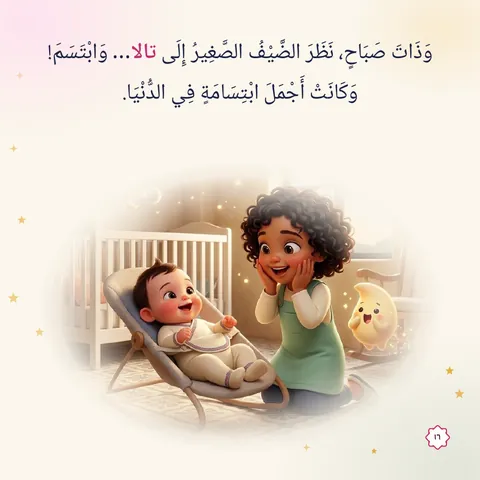
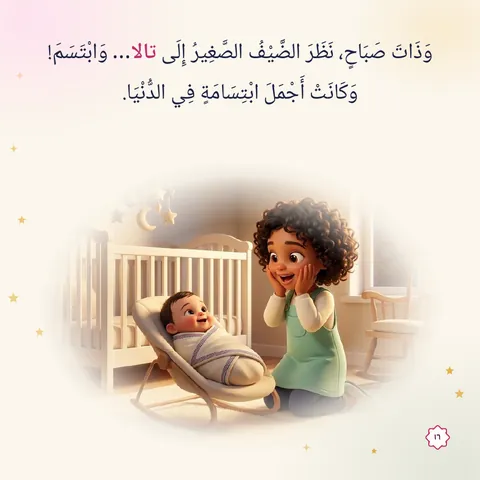
Style samples redrawn on the production path: portrait first, the v3 style guides
The site's samples were drawn with the old guides (the semi-realistic ones looked like a cartoon, and every
style's "character" sample was close to the watercolor sheet). Redrawn for the same invented girl تالا (no
hijab), from the same crop of her watercolor sheet, never a real child's photo:

- scripts/style_samples.py draw: the character as an order draws it (generate_character: the portrait in the
  style on Nano Banana Pro 1K, then the sheet on Pro 2K), the portrait passed to every page as the face
  reference; --no-companion, --portrait, and --total-cap (a cap over every run of one ledger prefix).
- Semi-realistic: character sheet, the new-sibling cover and «smile» page. 3D: sheet and «smile» page.
  Cartoon and watercolor: the sheet. Every new one looked at and kept (each better than the old).
- The activity-book cover and owner page re-rendered locally with each new sheet; the new watercolor sheet
  cuts out cleanly, so watercolor gets activity samples too.
- Spend: $1.44 of the $1.50 cap, 11 calls, `samples-v3:` rows in out/design-images/ledger.jsonl.

Changed region(s): [[0.1562, 0.375, 0.875, 0.9062]]

diff --git a/apps/web/src/lib/styleSamples.ts b/apps/web/src/lib/styleSamples.ts
@@ -205,7 +205,10 @@ const SIBLING_TALA = {
   ],
 } satisfies Record<string, Row>;
 
-/** تالا’s character sheet in each style (the same invented child as the new-sibling pages). */
+/**
+ * تالا’s character sheet in each style (the same invented child as the new-sibling pages), drawn 2026-10-16 as an
+ * order draws it: her portrait in the style, then the sheet (scripts/style_samples.py).
+ */
 const CHARACTER: Row = [
   "character",
   null,
@@ -295,7 +298,8 @@ const ROWS: Record<SampleStyle, Row[]> = {
     SIBLING_TALA.smile,
     ...GRADUATION,
     COMPANION,
-    CHARACTER, // no activity pages: this sheet's paper grain defeats the cut-out (scripts/style_samples.py)
+    CHARACTER,
+    ...ACTIVITY, // since the 2026-10-16 sheet, which cuts out cleanly
   ],
   cartoon: [
     FIRST_DAY_ADAM.cover,
@@ -308,8 +312,8 @@ const ROWS: Record<SampleStyle, Row[]> = {
     CHARACTER,
     ...ACTIVITY,
   ],
-  // drawn 2026-10-09 (`semireal:` rows in the ledger); the bassinet and news pages were rejected (the baby under
-  // the text box; the companion drawn twice), so the story has its cover and one page so far
+  // redrawn 2026-10-16 on the production path (portrait first, semi-realistic v3; `samples-v3:` rows in the
+  // ledger): the cover and one page so far
   "semi-realistic": [SIBLING_TALA.cover, SIBLING_TALA.smile, CHARACTER, ...ACTIVITY],
 };
 

diff --git a/scripts/style_samples.py b/scripts/style_samples.py
@@ -41,12 +41,12 @@ from PIL import Image
 
 from qamra_ai.config import Settings
 from qamra_ai.cost import CostEntry
-from qamra_ai.image import make_image_provider, make_upscaler
+from qamra_ai.image import make_character_image_providers, make_image_provider, make_upscaler
 from qamra_ai.image.base import GeneratedImage
 from qamra_ai.pipeline.assemble import AssemblyInputs, assemble_book
 from qamra_ai.pipeline.book import BookInputs, BookRun, default_companion, run_book
 from qamra_ai.pipeline.budget import Budget
-from qamra_ai.pipeline.character import generate_character_sheet
+from qamra_ai.pipeline.character import generate_character
 from qamra_ai.pipeline.models import Child
 from qamra_ai.pipeline.pages import PageResult
 from qamra_ai.pipeline.plates import DirPlateStore
@@ -71,28 +71,28 @@ CARTOON_ADAM = "out/style-samples/cartoon-first-day-adam/proof.pdf"
 CARTOON_TALA = "out/style-samples/cartoon-new-sibling-tala/proof.pdf"
 ADAM_3D = "out/style-samples/3d-first-day-adam/proof.pdf"
 TALA_3D = "out/style-samples/3d-new-sibling-tala/proof.pdf"  # p1 is a rejected cover, never exported
-# «شبه حقيقي» (2026-10-09, `semireal:` rows in the ledger): the sheet was drawn from a head-and-shoulders
-# crop of تالا's published sheet (a whole sheet as the reference is copied back unchanged), then the cover and
-# pages with `draw --sheet`. The bassinet page (three tries) put the baby under the text box and the news page
-# drew the companion twice: neither is exported.
-SEMI_TALA = "out/style-samples/semi-realistic-new-sibling-tala/proof.pdf"
-# The same invented child's character sheet per style, and the activity-book cover and «هذا الكتاب لـ…»
-# page with her cut-out, rendered locally (no AI):
-#   python -m qamra_workbook.render.workbook --level kg1 --volume 1 --cover --pages 1-1 --name تالا \
-#       --name-en Tala --gender f --sheet <sheet> --out out/style-samples/activity/<style>
-# Watercolor has no activity sample yet: until cut-out v3 (2026-10-09) that sheet's paper grain defeated the
-# cut-out (the whole sheet was pasted); it now cuts cleanly, so one can be rendered and added to ACTIVITY.
+# «شبه حقيقي» (2026-10-09, `semireal:` rows) was drawn from a crop of تالا's watercolor sheet on Nano Banana 2 and
+# looked like a cartoon. Redrawn 2026-10-16 on the production path (`samples-v3:` rows, $1.44 of a $1.50 cap,
+# `draw --ref <the same crop> --no-companion`): her portrait, then her sheet, on Nano Banana Pro (portrait first,
+# character_portrait.v2 + character_sheet.v6), then the pages on Nano Banana 2 with the portrait as the face
+# reference (page_image.v5), with the style guides customers now get (3D, cartoon and watercolor v3: the child's
+# own face; semi-realistic v3). Semi-realistic: sheet, cover and the «smile» page; 3D: sheet and the «smile»
+# page (that proof's p1 is the old rejected cover laid out again, never exported); cartoon and watercolor: the
+# sheet only. Every other story page is still a 2026-10-09 (or earlier) drawing.
+SEMI_TALA = "out/style-samples/semi-realistic-new-sibling-tala-v3/proof.pdf"
+TALA_3D_V3 = "out/style-samples/3d-new-sibling-tala-v3/proof.pdf"
+# The same invented child's character sheet per style (2026-10-16), and the activity-book cover and «هذا الكتاب
+# لـ…» page with her cut-out, rendered locally (no AI):
+#   python -m qamra_workbook.render.workbook --level kg1 --volume 1 --cover --pages 1-1 --name تالا
+#       --name-en Tala --gender f --sheet <sheet> --out out/style-samples/activity-v3/<style>
+# The new watercolor sheet cuts out cleanly, so watercolor has activity samples too.
 SHEETS = {
-    "3d": "out/style-samples/src/3d-new-sibling-tala/character.png",
-    "watercolor": "out/style-samples/src/watercolor-tala-sheet.png",
-    "cartoon": "out/style-samples/src/cartoon-new-sibling-tala/character.png",
-    "semi-realistic": "out/style-samples/src/semi-realistic-new-sibling-tala/character.png",
+    "3d": "out/style-samples/3d-new-sibling-tala-v3/character-sheet.png",
+    "watercolor": "out/style-samples/watercolor-tala-sheet-v3/character-sheet.png",
+    "cartoon": "out/style-samples/cartoon-tala-sheet-v3/character-sheet.png",
+    "semi-realistic": "out/style-samples/semi-realistic-new-sibling-tala-v3/character-sheet.png",
 }
-ACTIVITY = {  # style → the render folder's page-range suffix
-    "3d": "p1-1",
-    "cartoon": "p1-1",
-    "semi-realistic": "p1-3",
-}
+ACTIVITY = ("3d", "cartoon", "semi-realistic", "watercolor")
 
 # What the site shows: style/name ← (a proof PDF and its 1-based page) or a picture file. The alt texts and
 # the order live in styleSamples.ts; this list only makes the files.
@@ -101,7 +101,7 @@ SAMPLES: list[tuple[str, str, str, int | None]] = [
     ("3d", "first-day-blocks", ADAM_3D, 3),
     ("3d", "first-day-yard", ADAM_3D, 4),
     ("3d", "new-sibling-bassinet", TALA_3D, 3),
-    ("3d", "new-sibling-smile", TALA_3D, 4),
+    ("3d", "new-sibling-smile", TALA_3D_V3, 3),
     ("3d", "graduation-cover", GRAD_3D, 1),
     ("3d", "graduation-mirror", GRAD_3D, 3),
     ("3d", "graduation-album", GRAD_3D, 4),
@@ -140,8 +140,8 @@ SAMPLES: list[tuple[str, str, str, int | None]] = [
     ("semi-realistic", "new-sibling-smile", SEMI_TALA, 3),
     *((style, "character", sheet, None) for style, sheet in SHEETS.items()),
     *(
-        (style, name, f"out/style-samples/activity/{style}/png-kg1-v1-{pages}{folder}/{file}.png", None)
-        for style, pages in ACTIVITY.items()
+        (style, name, f"out/style-samples/activity-v3/{style}/png-kg1-v1-p1-1{folder}/{file}.png", None)
+        for style in ACTIVITY
         for name, folder, file in (
             ("activity-cover", "-cover", "workbook-cover-front"),
             ("activity-owner", "", "p001-owner-page"),
@@ -157,6 +157,18 @@ def _ledger_row(entry: CostEntry, tag: str, prefix: str = "samples") -> None:
     row = {"id": f"{prefix}:{tag}:{entry.step}", "model": entry.model, "usd": round(entry.usd, 4)}
     with LEDGER.open("a", encoding="utf-8") as f:
         f.write(json.dumps(row, ensure_ascii=False) + "\n")
+
+
+def _spent(prefix: str) -> float:
+    """What the ledger already holds for this prefix (`--total-cap` covers every run of a round together)."""
+    if not LEDGER.exists():
+        return 0.0
+    total = 0.0
+    for line in LEDGER.read_text(encoding="utf-8").splitlines():
+        row = json.loads(line) if line.strip() else {}
+        if str(row.get("id", "")).startswith(f"{prefix}:"):
+            total += float(row.get("usd", 0))
+    return total
 
 
 def _child(args: argparse.Namespace) -> Child:
@@ -206,34 +218,50 @@ async def draw(args: argparse.Namespace) -> int:
         return 2
     theme, style, child = load_theme(args.theme), load_style(args.style), _child(args)
     tag = f"{args.style}:{args.theme}"
+    budget = args.budget
+    if args.total_cap is not None:  # the round's cap: what earlier runs with this prefix spent counts too
+        budget = min(budget, round(args.total_cap - _spent(args.ledger), 4))
+        if budget <= 0:
+            print(f"the round's cap (${args.total_cap:.2f}) is spent")
+            return 2
     image = make_image_provider(settings)
+    portrait_image, sheet_image = make_character_image_providers(settings)  # production: portrait first
     rt = Runtime(
         settings=settings,
         text=make_text_provider(settings),
         image=image,
         upscaler=make_upscaler(settings),
-        budget=Budget(cap_usd=args.budget),
+        portrait_image=portrait_image,
+        sheet_image=sheet_image,
+        budget=Budget(cap_usd=budget),
         on_cost=lambda e: _ledger_row(e, tag, args.ledger),
     )
     out = OUT / f"{time.strftime('%Y%m%d-%H%M%S')}-{args.style}-{args.theme}"
     out.mkdir(parents=True, exist_ok=True)
-    print(f"→ {out} (budget ${args.budget:.2f})")
+    print(f"→ {out} (budget ${budget:.2f})")
     try:
+        portrait = args.portrait.read_bytes() if args.portrait else None
         if args.sheet:
             sheet = args.sheet.read_bytes()
         else:
-            sheet = (await generate_character_sheet(rt, child, [args.ref.read_bytes()], style)).data
+            # as an order draws it (2026-10-10): the portrait in the style, then the sheet from the reference
+            # and that portrait (character_portrait / character_sheet, each on its own model)
+            drawn = await generate_character(rt, child, [args.ref.read_bytes()], style)
+            sheet, portrait = drawn.sheet.data, drawn.portrait.data
             (out / "character-sheet.png").write_bytes(sheet)
+            (out / "portrait.png").write_bytes(portrait)
         inputs = BookInputs(
             child=child,
             lang="ar",
             theme=theme,
             style=style,
             character_sheet=sheet,
-            companion=default_companion(theme, "ar"),
+            # --no-companion: the child alone (no companion sheet to draw for a style the cache lacks)
+            companion=None if args.no_companion else default_companion(theme, "ar"),
             seed=args.seed,
             cover=args.cover.read_bytes() if args.cover else None,  # an earlier run's cover: no new cover
             plates=DirPlateStore(OUT / "plate-cache"),
+            portrait=portrait,  # every hero picture's face reference, as in an order
         )
         beats = sorted(set(args.beats) if args.cover else {0, *args.beats})
         run = await run_book(rt, inputs, mode="preview", beats=beats)
@@ -372,6 +400,15 @@ def parse_args(argv: list[str] | None = None) -> argparse.Namespace:
             s.add_argument("--cover", type=Path, help="an earlier run's cover (beat-00.png): no cover call")
             s.add_argument(
                 "--ledger", default="samples", help="the ledger rows' prefix (a budget of its own)"
+            )
+            s.add_argument(
+                "--portrait", type=Path, help="the portrait drawn with --sheet's sheet (the pages' face)"
+            )
+            s.add_argument("--no-companion", action="store_true", help="draw the child without «قمّور»")
+            s.add_argument(
+                "--total-cap",
+                type=float,
+                help="a cap in USD for every run with this --ledger prefix together (the ledger counts)",
             )
         else:
             s.add_argument("--images", type=Path, required=True)
